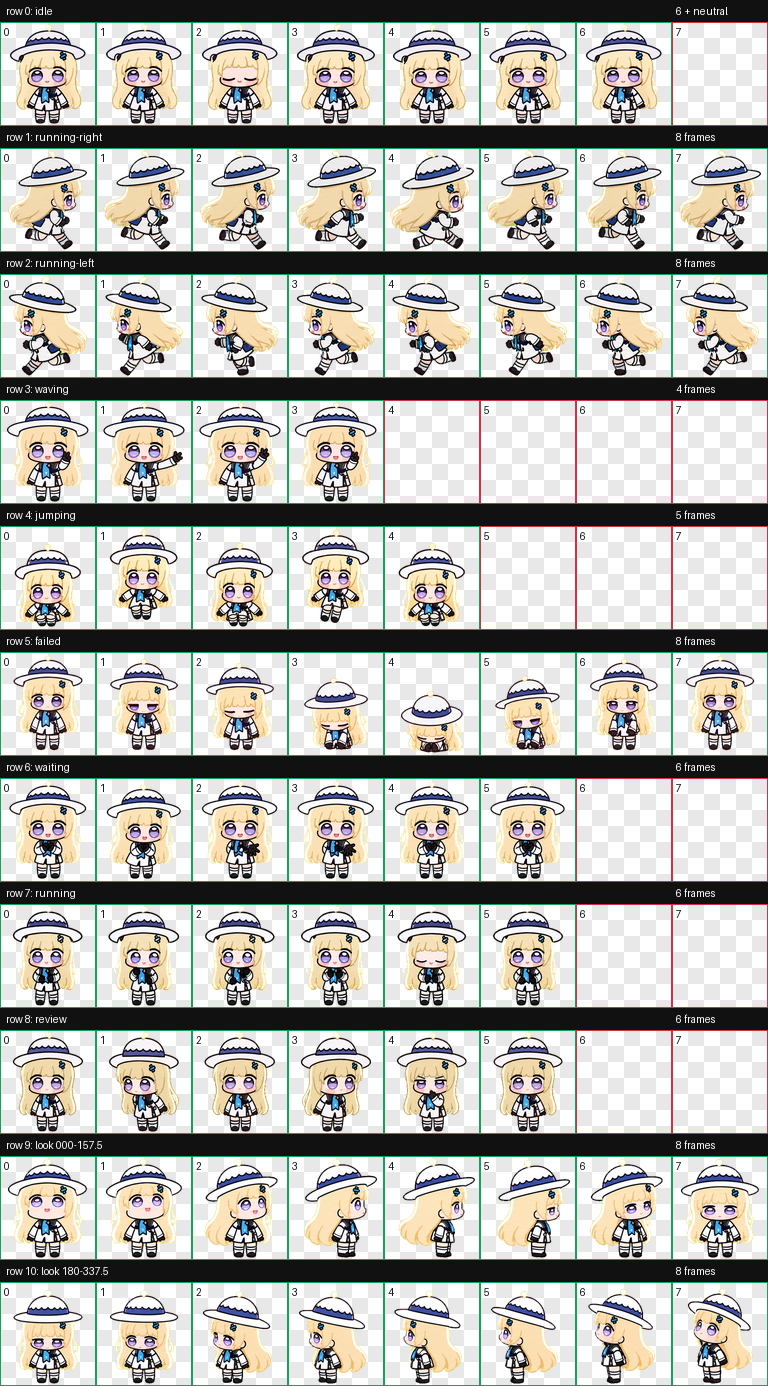
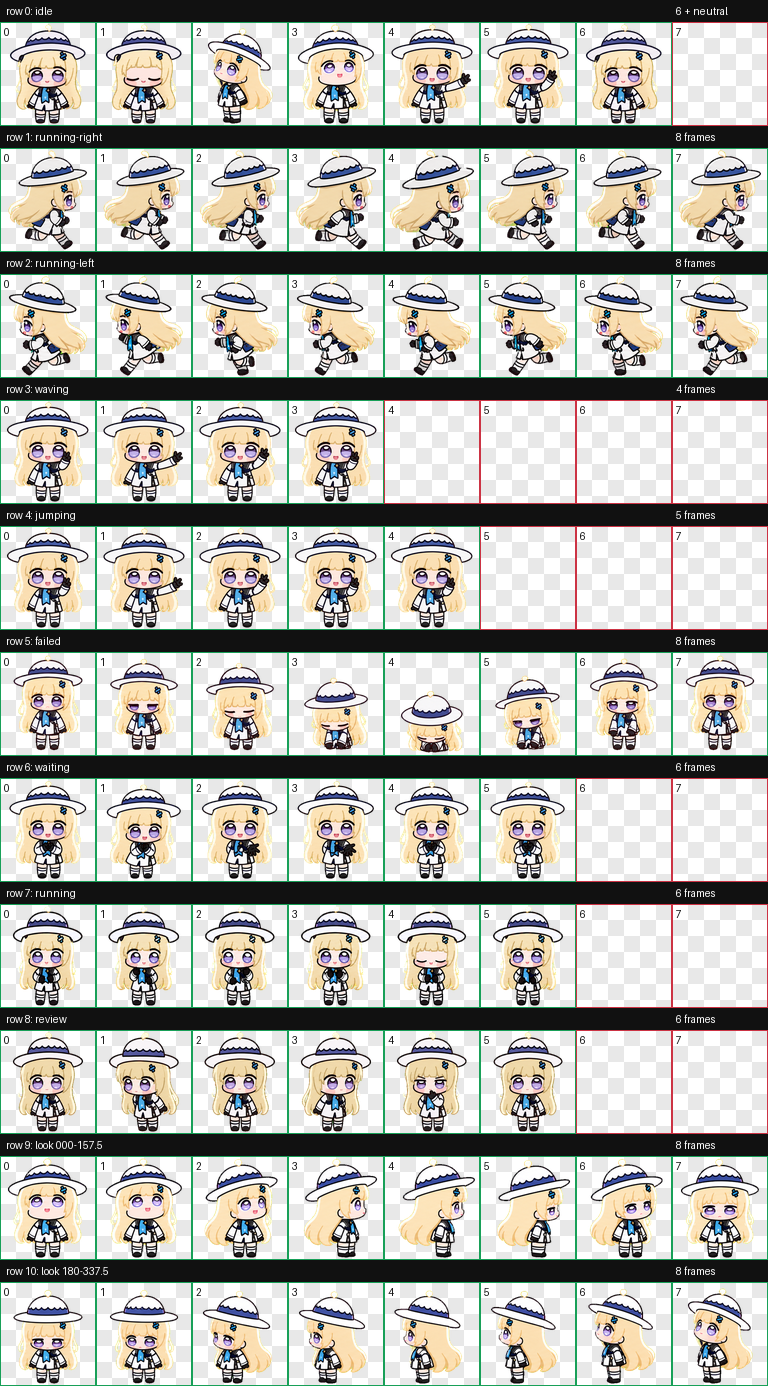
Add idle and hover pet actions

Changed region(s): [[0.1562, 0.0, 0.75, 0.0931], [0.0, 0.3723, 0.625, 0.4654]]

diff --git a/README.md b/README.md
@@ -16,6 +16,9 @@
 
 包含 idle、running-right、running-left、waving、jumping、failed、waiting、running、review，以及两行 16 方向观察动画。
 
+- 待机时会眨眼、左右张望并挥手。
+- 指针触碰宠物时会挥手回应，不再蹲下。
+
 ## 安装
 
 将本仓库复制到 Codex 宠物目录：
